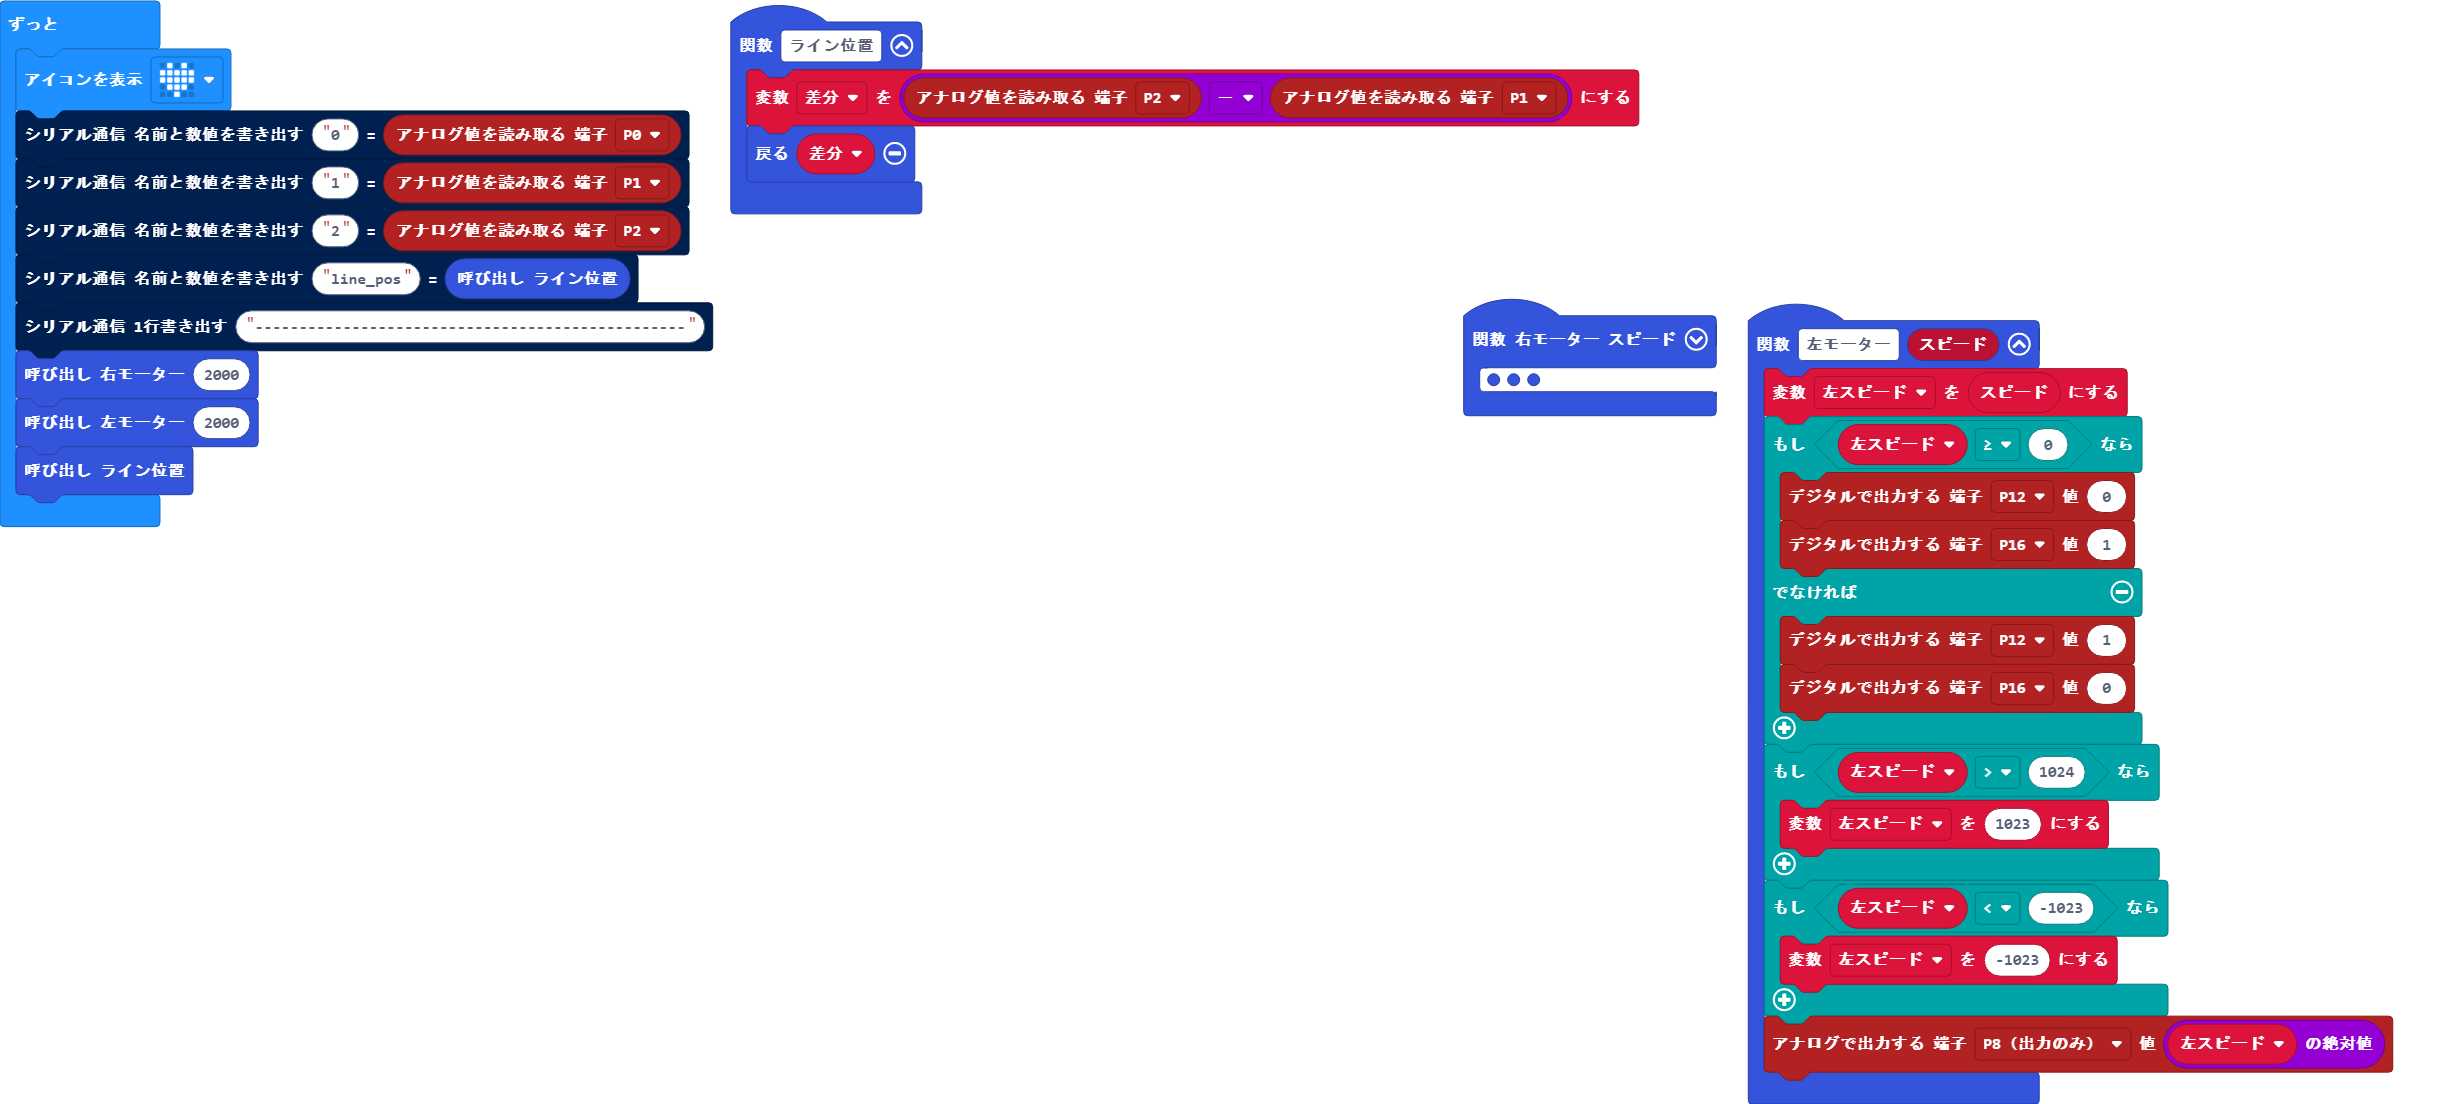
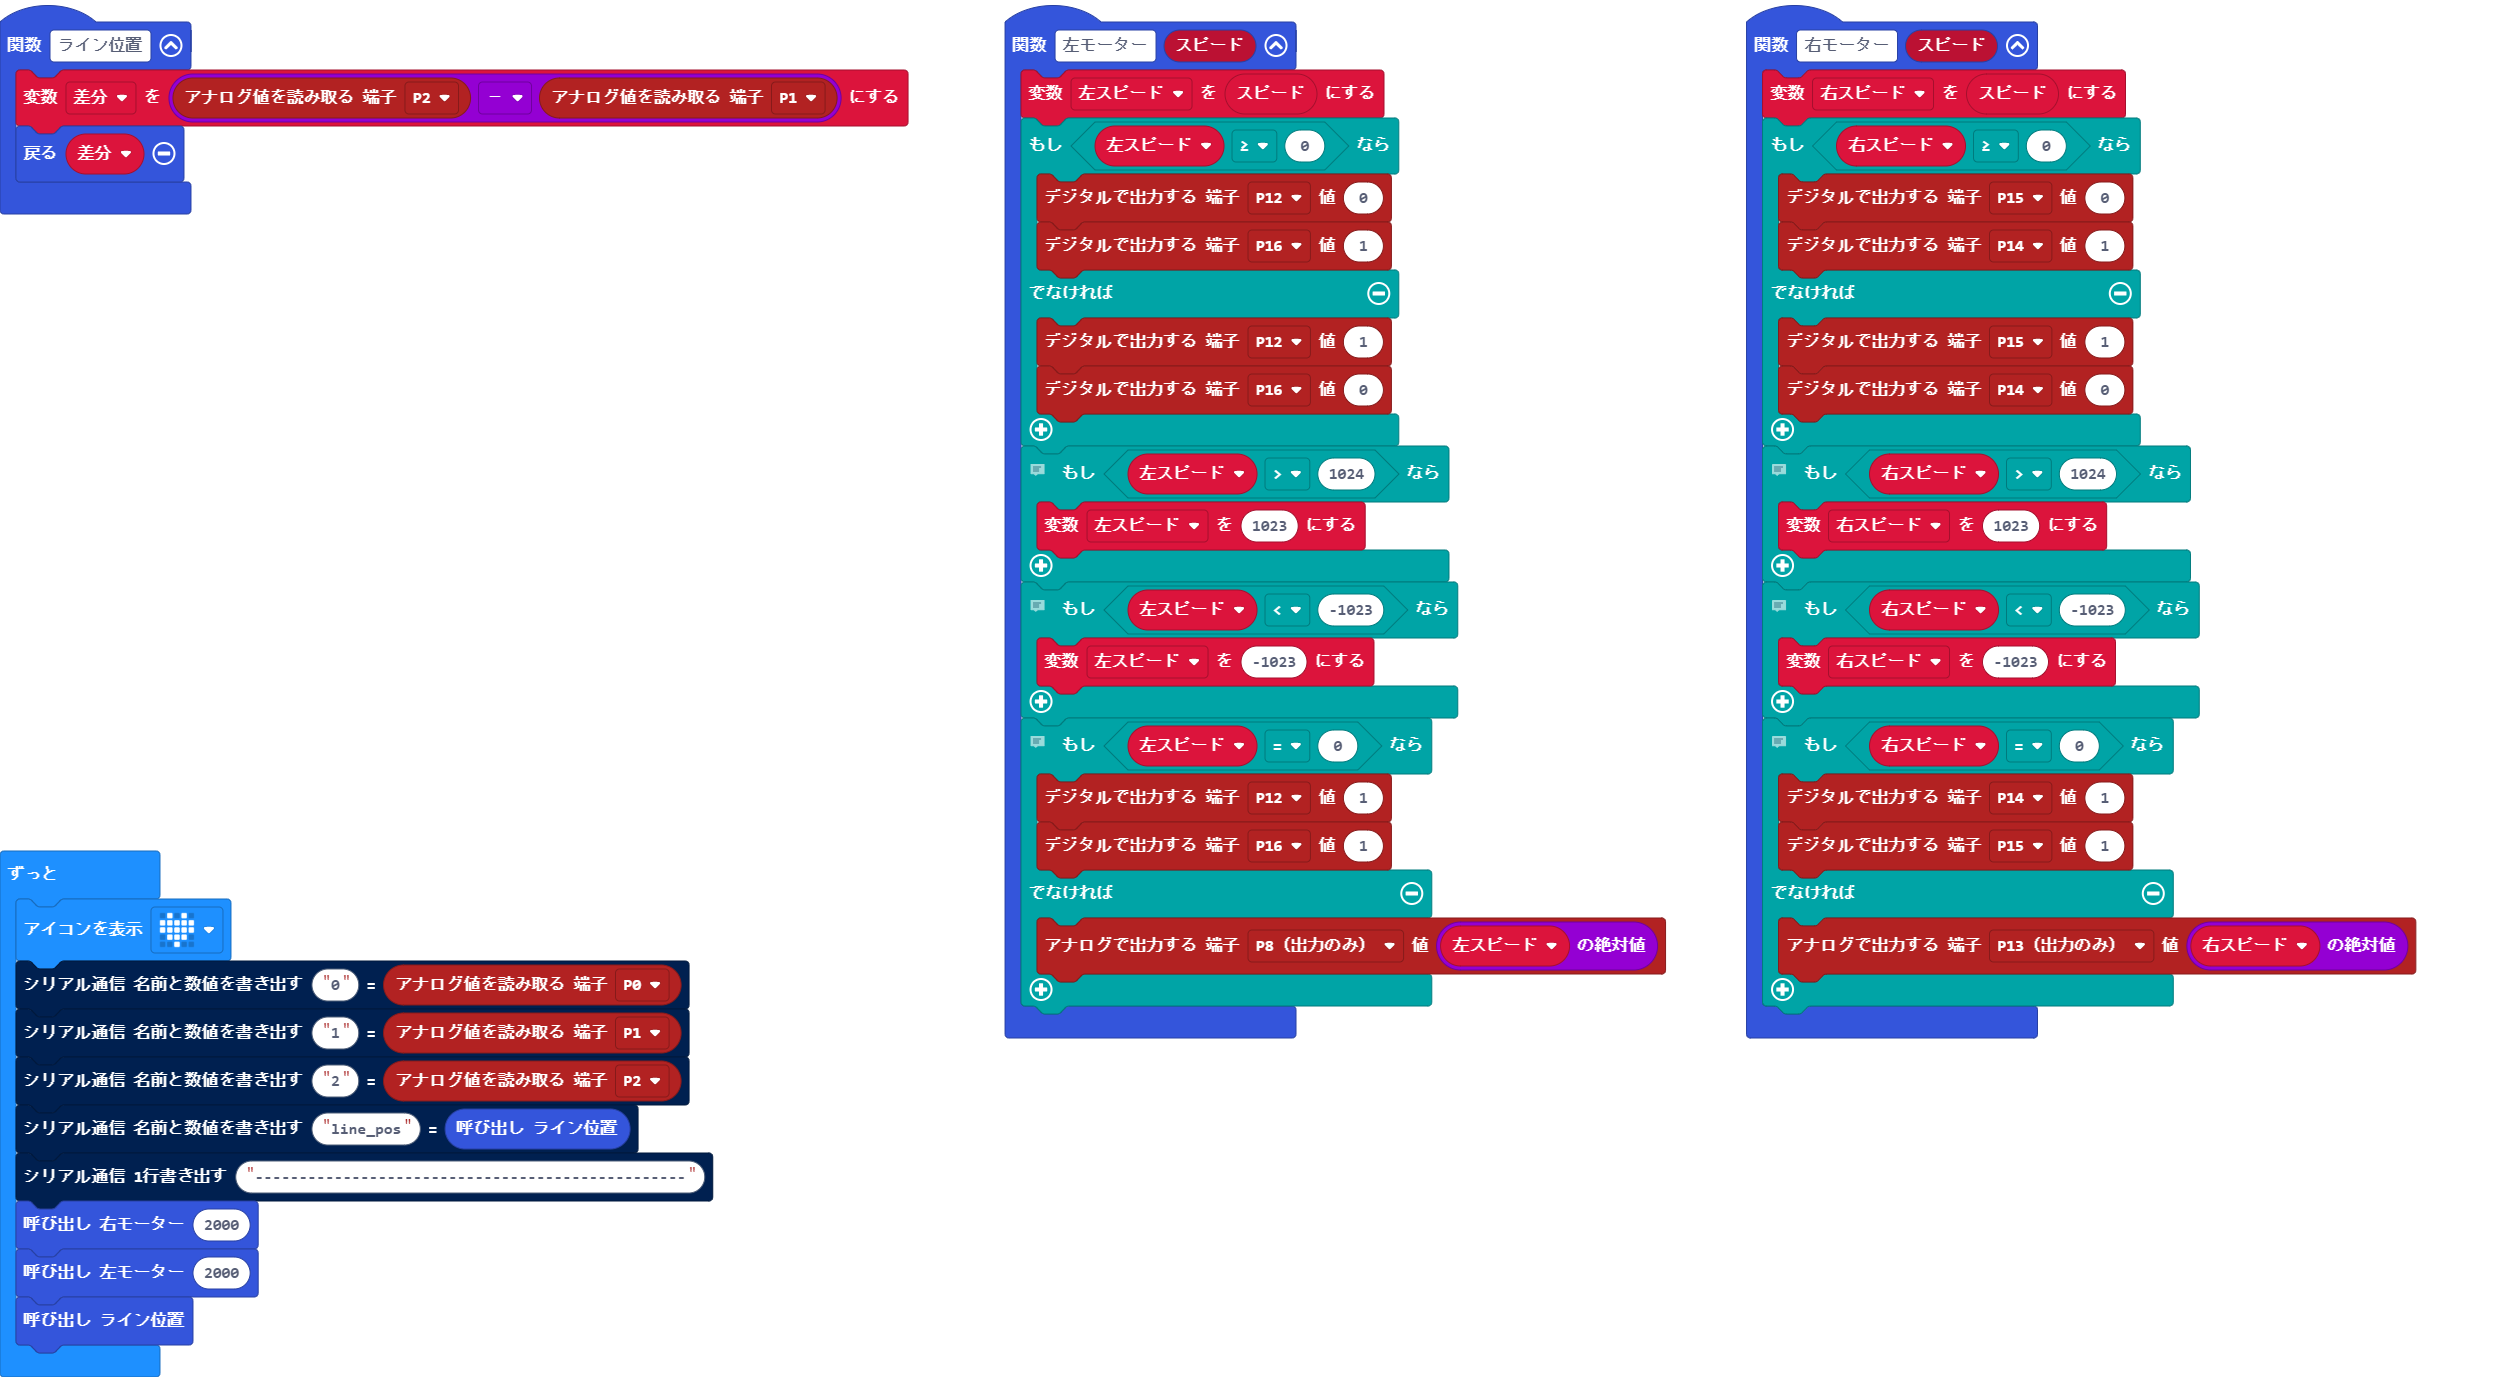
ブレーキを追加

diff --git a/main.ts b/main.ts
@@ -14,13 +14,21 @@ function 左モーター (スピード: number) {
         pins.digitalWritePin(DigitalPin.P12, 1)
         pins.digitalWritePin(DigitalPin.P16, 0)
     }
+    // 正転のリミット
     if (左スピード > 1024) {
         左スピード = 1023
     }
+    // 逆転のリミット
     if (左スピード < -1023) {
         左スピード = -1023
     }
-    pins.analogWritePin(AnalogPin.P8, Math.abs(左スピード))
+    // ブレーキ
+    if (左スピード == 0) {
+        pins.digitalWritePin(DigitalPin.P12, 1)
+        pins.digitalWritePin(DigitalPin.P16, 1)
+    } else {
+        pins.analogWritePin(AnalogPin.P8, Math.abs(左スピード))
+    }
 }
 function 右モーター (スピード: number) {
     右スピード = スピード
@@ -31,13 +39,21 @@ function 右モーター (スピード: number) {
         pins.digitalWritePin(DigitalPin.P15, 1)
         pins.digitalWritePin(DigitalPin.P14, 0)
     }
+    // 正転のリミット
     if (右スピード > 1024) {
         右スピード = 1023
     }
+    // 逆転のリミット
     if (右スピード < -1023) {
         右スピード = -1023
     }
-    pins.analogWritePin(AnalogPin.P13, Math.abs(右スピード))
+    // ブレーキ
+    if (右スピード == 0) {
+        pins.digitalWritePin(DigitalPin.P14, 1)
+        pins.digitalWritePin(DigitalPin.P15, 1)
+    } else {
+        pins.analogWritePin(AnalogPin.P13, Math.abs(右スピード))
+    }
 }
 basic.forever(function () {
     basic.showIcon(IconNames.Heart)
